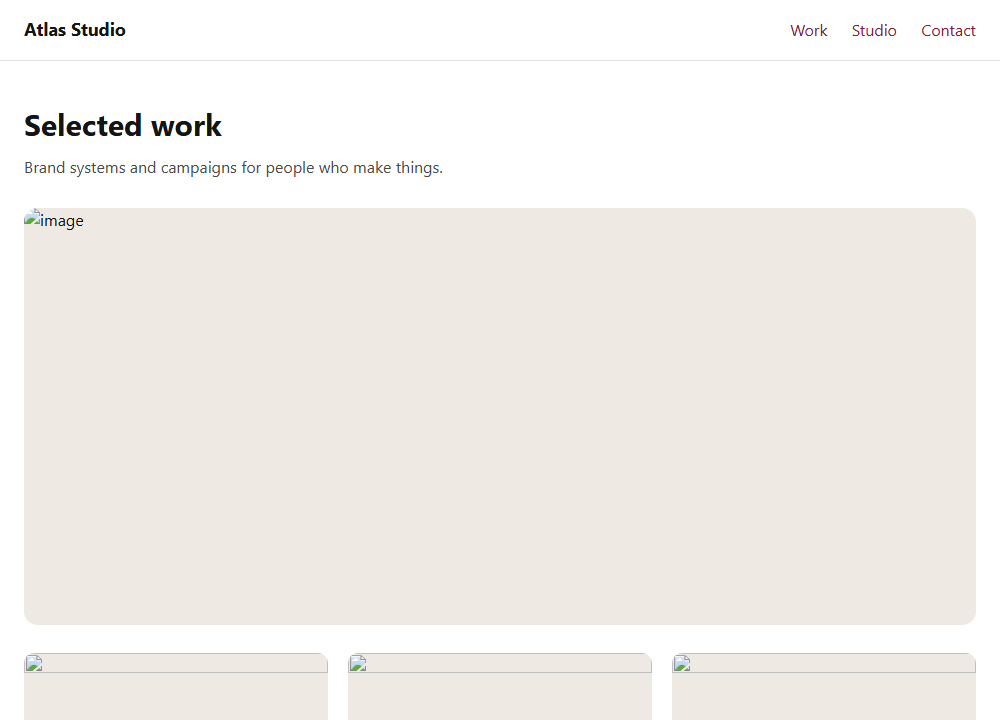
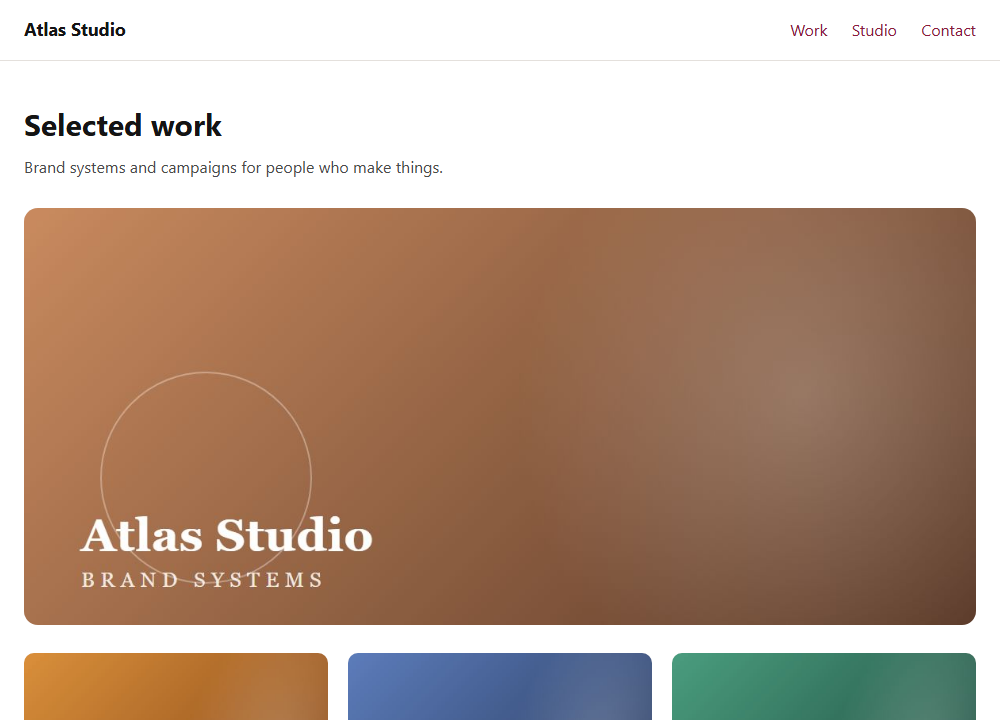
item 6: real images for the demo screenshots (V1 byte-identical)
The alt-generic before/after PNGs rendered as broken-image placeholders because
the page referenced assets/*.jpg that didn't exist. Add original, license-clean,
deterministically-rendered sample images (build-sample-images.ts — no third-party
assets, no network) at the exact referenced paths, and inject a <base href> when
screenshotting so relative <img> resolve from the temp render dir.

The page now renders as a real portfolio. With the images loading, before/after
are visually identical — the alt fix (grid alts grounded to "", hero escalated
not guessed) is invisible to a screenshot, exactly as it is to a scanner; caption
updated to say so honestly.

CRITICAL: image files change no A/B/C finding (they key off alt/roles/structure,
not whether a file loads). Re-ran the default 27-page eval + ablation: metrics.json
AND ablation.json BYTE-IDENTICAL to sealed. keyboard-trap-modal shots unchanged.

diff --git a/eval/build-sample-images.ts b/eval/build-sample-images.ts
@@ -1,0 +1,58 @@
+import { chromium, type Browser } from "playwright";
+import { mkdirSync } from "node:fs";
+import { join } from "node:path";
+import { screenshotHtml } from "../src/report/screenshot.js";
+
+/**
+ * Generate the sample images the `alt-generic` demo page references, so the report's
+ * before/after screenshots render as real, production-looking pages instead of broken-image
+ * placeholders. These are ORIGINAL, deterministic, rendered gradient/geometry compositions —
+ * no third-party assets, no license risk, no network. They are pure decoration: the eval keys
+ * off alt/roles/structure, never whether a file loads, so committing them changes no finding.
+ * Run from dist/: node dist/eval/build-sample-images.js
+ */
+
+const OUT = join(process.cwd(), "corpus", "adversarial", "alt-generic", "assets");
+
+interface Swatch { file: string; w: number; h: number; from: string; to: string; label: string; tag: string; }
+
+const SWATCHES: Swatch[] = [
+  { file: "hero.jpg", w: 1200, h: 525, from: "#c98a5e", to: "#5b3a29", label: "Atlas Studio", tag: "Brand systems" },
+  { file: "harvest.jpg", w: 600, h: 450, from: "#d98f3a", to: "#7a3b12", label: "Harvest Table", tag: "Identity" },
+  { file: "lumen.jpg", w: 600, h: 450, from: "#5c7cba", to: "#20304f", label: "Lumen", tag: "Packaging" },
+  { file: "verge.jpg", w: 600, h: 450, from: "#4a9d7f", to: "#173d33", label: "Verge", tag: "Campaign" },
+];
+
+function swatchHtml(s: Swatch): string {
+  return `<!doctype html><html><head><meta charset="utf-8"><style>
+    html,body{margin:0;padding:0}
+    .art{width:${s.w}px;height:${s.h}px;position:relative;overflow:hidden;
+      background:linear-gradient(135deg,${s.from},${s.to});
+      font-family:Georgia,'Times New Roman',serif;color:#fff}
+    .art::before{content:"";position:absolute;right:-12%;top:-30%;width:60%;height:150%;
+      background:radial-gradient(closest-side,rgba(255,255,255,.22),transparent);transform:rotate(18deg)}
+    .art::after{content:"";position:absolute;left:8%;bottom:10%;width:${Math.round(s.h*0.5)}px;height:${Math.round(s.h*0.5)}px;
+      border:2px solid rgba(255,255,255,.35);border-radius:50%}
+    .cap{position:absolute;left:6%;bottom:8%;z-index:2}
+    .cap .t{font-size:${Math.round(s.h*0.11)}px;font-weight:700;letter-spacing:.01em;line-height:1.05}
+    .cap .g{font-size:${Math.round(s.h*0.05)}px;letter-spacing:.28em;text-transform:uppercase;opacity:.85;margin-top:.4em}
+  </style></head><body>
+  <div class="art"><div class="cap"><div class="t">${s.label}</div><div class="g">${s.tag}</div></div></div>
+  </body></html>`;
+}
+
+async function main(): Promise<void> {
+  mkdirSync(OUT, { recursive: true });
+  const browser: Browser = await chromium.launch({ args: ["--no-sandbox", "--disable-dev-shm-usage"] });
+  try {
+    for (const s of SWATCHES) {
+      await screenshotHtml(swatchHtml(s), join(OUT, s.file), { browser, width: s.w, height: s.h, fullPage: false });
+      console.log(`image: ${s.file} (${s.w}x${s.h})`);
+    }
+  } finally {
+    await browser.close();
+  }
+  console.log(`Wrote sample images to ${OUT}`);
+}
+
+main().catch((e: unknown) => { console.error(e); process.exitCode = 1; });

diff --git a/docs/report.html b/docs/report.html
@@ -164,12 +164,14 @@ code{background:#eef0f3;padding:1px 5px;border-radius:4px;font-size:13px}
       <figure><img src="assets/shots/alt-generic-after.png" alt="After the advanced agent: the captioned grid images have empty alt, while the uncaptioned hero still reads image because it was escalated, not guessed.">
         <figcaption class="after">After — <b>grounded or escalated, never guessed</b></figcaption></figure>
     </div>
-    <p class="muted"><code>alt-generic</code>: here the difference <em>is</em> visible (broken images
-    surface their alt). The three grid images have captions to ground them, so their redundant
-    “photo/image/picture” alt is set to <code>alt=""</code>. The hero has <strong>no caption to
-    ground a description</strong> — so the advanced agent leaves it untouched (still “image”) and
-    escalates it to a human, rather than inventing one. The baseline instead shipped a confident,
-    fabricated hero description. <span class="tag">Hot take, enforced</span></p>
+    <p class="muted"><code>alt-generic</code>: a real portfolio page — and again the two images are
+    identical, because a correct alt fix is <strong>invisible</strong> once the images load. Under
+    the hood the difference is real: the three grid images have captions to ground them, so their
+    meaningless “photo/image/picture” alt becomes <code>alt=""</code>; the hero has <strong>no
+    caption to ground a description</strong>, so the advanced agent leaves it untouched and
+    escalates it to a human instead of inventing one. The baseline shipped a confident, fabricated
+    hero description here — and note it would look <em>exactly</em> as correct in this screenshot,
+    which is precisely why that failure is dangerous. <span class="tag">Hot take, enforced</span></p>
   </div>
 </section>
 

diff --git a/eval/build-shots.ts b/eval/build-shots.ts
@@ -1,6 +1,7 @@
 import { chromium, type Browser } from "playwright";
 import { readFileSync } from "node:fs";
 import { join } from "node:path";
+import { pathToFileURL } from "node:url";
 import { runAdvanced } from "../src/agents/advanced.js";
 import { screenshotHtml } from "../src/report/screenshot.js";
 
@@ -46,8 +47,13 @@ async function main(): Promise<void> {
     for (const shot of SHOTS) {
       const original = readFileSync(join(CORPUS, shot.slug, "index.html"), "utf8");
       const advanced = (await runAdvanced(original, { browser, pageId: shot.slug })).html;
-      const before = shot.prep ? shot.prep(original) : original;
-      const after = shot.prep ? shot.prep(advanced) : advanced;
+      // The screenshot renders from a temp dir, so inject a <base> pointing at the page's real
+      // directory — this is what lets relative <img src="assets/…"> resolve to the committed
+      // sample images. Applied identically to before/after (render-only; never touches the eval).
+      const baseTag = `<base href="${pathToFileURL(join(CORPUS, shot.slug)).href}/">`;
+      const withBase = (h: string) => (shot.prep ? shot.prep(h) : h).replace("<head>", `<head>${baseTag}`);
+      const before = withBase(original);
+      const after = withBase(advanced);
       await screenshotHtml(before, join(OUT, `${shot.slug}-before.png`), { browser, ...VIEWPORT, fullPage: false });
       await screenshotHtml(after, join(OUT, `${shot.slug}-after.png`), { browser, ...VIEWPORT, fullPage: false });
       console.log(`shot: ${shot.slug} (before + after)`);
